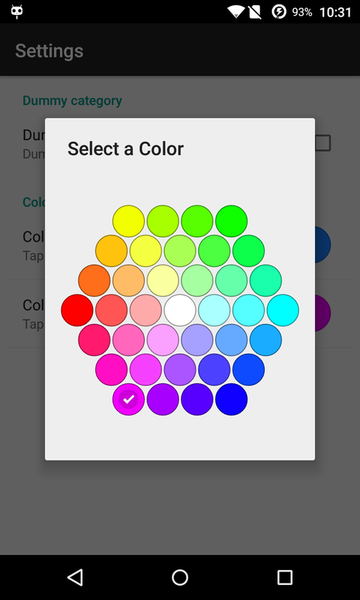
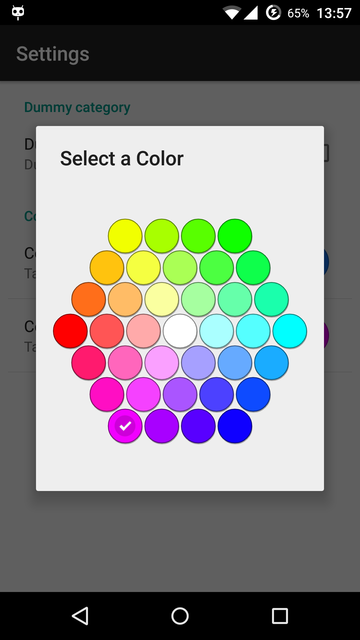
Color swatch shadows added

diff --git a/HexagonalColorPicker/src/sk/hidasi/hexagonalcolorpicker/HexagonalColorPickerDialog.java b/HexagonalColorPicker/src/sk/hidasi/hexagonalcolorpicker/HexagonalColorPickerDialog.java
@@ -19,12 +19,15 @@ package sk.hidasi.hexagonalcolorpicker;
 import sk.hidasi.hexagonalcolorpicker.HexagonalColorPicker.OnColorSelectedListener;
 import android.app.Dialog;
 import android.content.Context;
+import android.graphics.Color;
 import android.os.Bundle;
 
 public class HexagonalColorPickerDialog extends Dialog implements OnColorSelectedListener {
 
 	private static final String KEY_SELECTED_COLOR = "selected_color";
 	private static final String KEY_PALETTE_RADIUS = "palette_radius";
+	private static final String KEY_SHADOW_DISTANCE = "shadow_distance";
+	private static final String KEY_SHADOW_COLOR = "shadow_color";
 	private static final String KEY_TITLE_ID = "title_id";
 
 	private HexagonalColorPicker mPalette;
@@ -33,6 +36,8 @@ public class HexagonalColorPickerDialog extends Dialog implements OnColorSelecte
 	private int mTitleResId;
 	private int mPaletteRadius;
 	private int mSelectedColor;
+	private int mShadowDistance;
+	private int mShadowColor;
 
 	public HexagonalColorPickerDialog(Context context, final int titleResId, final int radius,
 								final int selectedColor, final OnColorSelectedListener listener) {
@@ -41,6 +46,13 @@ public class HexagonalColorPickerDialog extends Dialog implements OnColorSelecte
 		mPaletteRadius = radius;
 		mSelectedColor = selectedColor;
 		mListener = listener;
+		mShadowDistance = 0;
+		mShadowColor = Color.DKGRAY;
+	}
+	
+	public void setShadowParams(final int shadowDistance, final int shadowColor) {
+		mShadowDistance = shadowDistance;
+		mShadowColor = shadowColor;
 	}
 
 	@Override
@@ -51,12 +63,15 @@ public class HexagonalColorPickerDialog extends Dialog implements OnColorSelecte
 			mTitleResId = savedInstanceState.getInt(KEY_TITLE_ID);
 			mPaletteRadius = savedInstanceState.getInt(KEY_PALETTE_RADIUS);
 			mSelectedColor = savedInstanceState.getInt(KEY_SELECTED_COLOR);
+			mShadowDistance = savedInstanceState.getInt(KEY_SHADOW_DISTANCE);
+			mShadowColor = savedInstanceState.getInt(KEY_SHADOW_COLOR);
 		}
 
 		setContentView(R.layout.color_picker_dialog);
 		setTitle(mTitleResId);
 		mPalette = (HexagonalColorPicker) findViewById(R.id.color_picker);
 		mPalette.setAttrs(mPaletteRadius, mSelectedColor, this);
+		mPalette.setShadowParams(mShadowDistance, mShadowColor);
 	}
 
 	@Override
@@ -81,6 +96,8 @@ public class HexagonalColorPickerDialog extends Dialog implements OnColorSelecte
 		outState.putInt(KEY_TITLE_ID, mTitleResId);
 		outState.putInt(KEY_PALETTE_RADIUS, mPaletteRadius);
 		outState.putInt(KEY_SELECTED_COLOR, mSelectedColor);
+		outState.putInt(KEY_SHADOW_DISTANCE, mShadowDistance);
+		outState.putInt(KEY_SHADOW_COLOR, mShadowColor);
 		return outState;
 	}
 

diff --git a/HexagonalColorPickerExample/src/sk/hidasi/hexagonalcolorpickerexample/MainActivity.java b/HexagonalColorPickerExample/src/sk/hidasi/hexagonalcolorpickerexample/MainActivity.java
@@ -32,6 +32,7 @@ import android.widget.TextView;
 public class MainActivity extends Activity implements OnColorSelectedListener {
 
 	private static final int PALETTE_RADIUS = 3;
+	private static final int SEEK_MINIMUM = 1;
 	
 	@Override
 	protected void onCreate(Bundle savedInstanceState) {
@@ -41,7 +42,7 @@ public class MainActivity extends Activity implements OnColorSelectedListener {
 		SeekBar seekPaletteRadius = (SeekBar) findViewById(R.id.seekPaletteRadius);
 		EditText editPaletteRadius = (EditText) findViewById(R.id.editPaletteRadius);
 
-		bindControls(seekPaletteRadius, editPaletteRadius, PALETTE_RADIUS);
+		bindControls(seekPaletteRadius, editPaletteRadius, PALETTE_RADIUS-SEEK_MINIMUM);
 		
 		HexagonalColorPicker colorPicker = (HexagonalColorPicker) findViewById(R.id.hexagonalColorPicker);
 		colorPicker.setAttrs(PALETTE_RADIUS, Color.WHITE, this);
@@ -61,7 +62,7 @@ public class MainActivity extends Activity implements OnColorSelectedListener {
 			
 			@Override
 			public void onProgressChanged(SeekBar seekBar, int progress, boolean fromUser) {
-				edit.setText( Integer.toString(progress) );
+				edit.setText( Integer.toString(progress+SEEK_MINIMUM) );
 			}
 		});
 		
@@ -92,7 +93,7 @@ public class MainActivity extends Activity implements OnColorSelectedListener {
 
 		SeekBar seekPaletteRadius = (SeekBar) findViewById(R.id.seekPaletteRadius);
 
-		final int paletteRadius = seekPaletteRadius.getProgress();
+		final int paletteRadius = SEEK_MINIMUM+seekPaletteRadius.getProgress();
 		
 		HexagonalColorPicker colorPicker = (HexagonalColorPicker) findViewById(R.id.hexagonalColorPicker);
 		colorPicker.setAttrs(paletteRadius, Color.WHITE, this);

diff --git a/HexagonalColorPicker/src/sk/hidasi/hexagonalcolorpicker/HexagonalColorPicker.java b/HexagonalColorPicker/src/sk/hidasi/hexagonalcolorpicker/HexagonalColorPicker.java
@@ -67,6 +67,8 @@ public class HexagonalColorPicker extends View {
 	private Paint mPaintFill;
 	private Paint mPaintStroke;
 	private int mPaletteRadius;
+	private int mShadowDistance;
+	private int mShadowColor;
 	private int mSelectedColor;
 	private long mAnimStartMilis;
 	private final Interpolator mInterpolator = new AccelerateDecelerateInterpolator();
@@ -94,6 +96,8 @@ public class HexagonalColorPicker extends View {
 			attrs, R.styleable.HexagonalColorPicker, defStyle, defStyle);
 	
 		mPaletteRadius = a.getInteger(R.styleable.HexagonalColorPicker_paletteRadius, DEFAULT_PALETTE_RADIUS);
+		mShadowDistance = a.getDimensionPixelSize(R.styleable.HexagonalColorPicker_shadowDistance, 0);
+		mShadowColor = a.getColor(R.styleable.HexagonalColorPicker_shadowColor, Color.DKGRAY);
 		a.recycle();
 		
 		mSelectedColor = Color.TRANSPARENT;
@@ -107,6 +111,11 @@ public class HexagonalColorPicker extends View {
 		mSelectedColor = selectedColor;
 		mListener = listener;
 		init();
+	}
+	
+	public void setShadowParams(final int shadowDistance, final int shadowColor) {
+		mShadowDistance = shadowDistance;
+		mShadowColor = shadowColor;
 	}
 
 	public void setListener( final OnColorSelectedListener listener ) {
@@ -187,6 +196,11 @@ public class HexagonalColorPicker extends View {
 
 			final float x = mBounds.left + item.mCoordX * mBounds.width();
 			final float y = mBounds.top + item.mCoordY * mBounds.height();
+
+			if (mShadowDistance > 0) {
+				mPaintFill.setColor(mShadowColor);
+				canvas.drawCircle(x+mShadowDistance/2, y+mShadowDistance, r*1.05f, mPaintFill);
+			}
 
 			mPaintStroke.setColor(item.mColorStroke);
 			canvas.drawCircle(x, y, r, mPaintStroke);

diff --git a/HexagonalColorPicker/src/sk/hidasi/hexagonalcolorpicker/HexagonalColorPickerPreference.java b/HexagonalColorPicker/src/sk/hidasi/hexagonalcolorpicker/HexagonalColorPickerPreference.java
@@ -30,7 +30,11 @@ import android.widget.LinearLayout;
 
 public class HexagonalColorPickerPreference extends Preference implements OnColorSelectedListener {
 
+	private static final int DEFAULT_PALETTE_RADIUS = 3;
+
 	private int mPaletteRadius;
+	private int mShadowDistance;
+	private int mShadowColor;
 	private int mValue;
 
 	public HexagonalColorPickerPreference(Context context) {
@@ -53,7 +57,9 @@ public class HexagonalColorPickerPreference extends Preference implements OnColo
 		final TypedArray a = getContext().getTheme().obtainStyledAttributes(
 				attrs, R.styleable.HexagonalColorPicker, defStyle, defStyle);
 
-		mPaletteRadius = a.getInteger(R.styleable.HexagonalColorPicker_paletteRadius, 2);
+		mPaletteRadius = a.getInteger(R.styleable.HexagonalColorPicker_paletteRadius, DEFAULT_PALETTE_RADIUS);
+		mShadowDistance = a.getDimensionPixelSize(R.styleable.HexagonalColorPicker_shadowDistance, 0);
+		mShadowColor = a.getColor(R.styleable.HexagonalColorPicker_shadowColor, Color.DKGRAY);
 		a.recycle();
 	}
 
@@ -76,6 +82,7 @@ public class HexagonalColorPickerPreference extends Preference implements OnColo
 	protected void onClick() {
 		super.onClick();
 		final HexagonalColorPickerDialog dialog = new HexagonalColorPickerDialog(getContext(), R.string.color_picker_default_title, mPaletteRadius, mValue, this);
+		dialog.setShadowParams(mShadowDistance, mShadowColor);
 		dialog.show();
 	}
 
